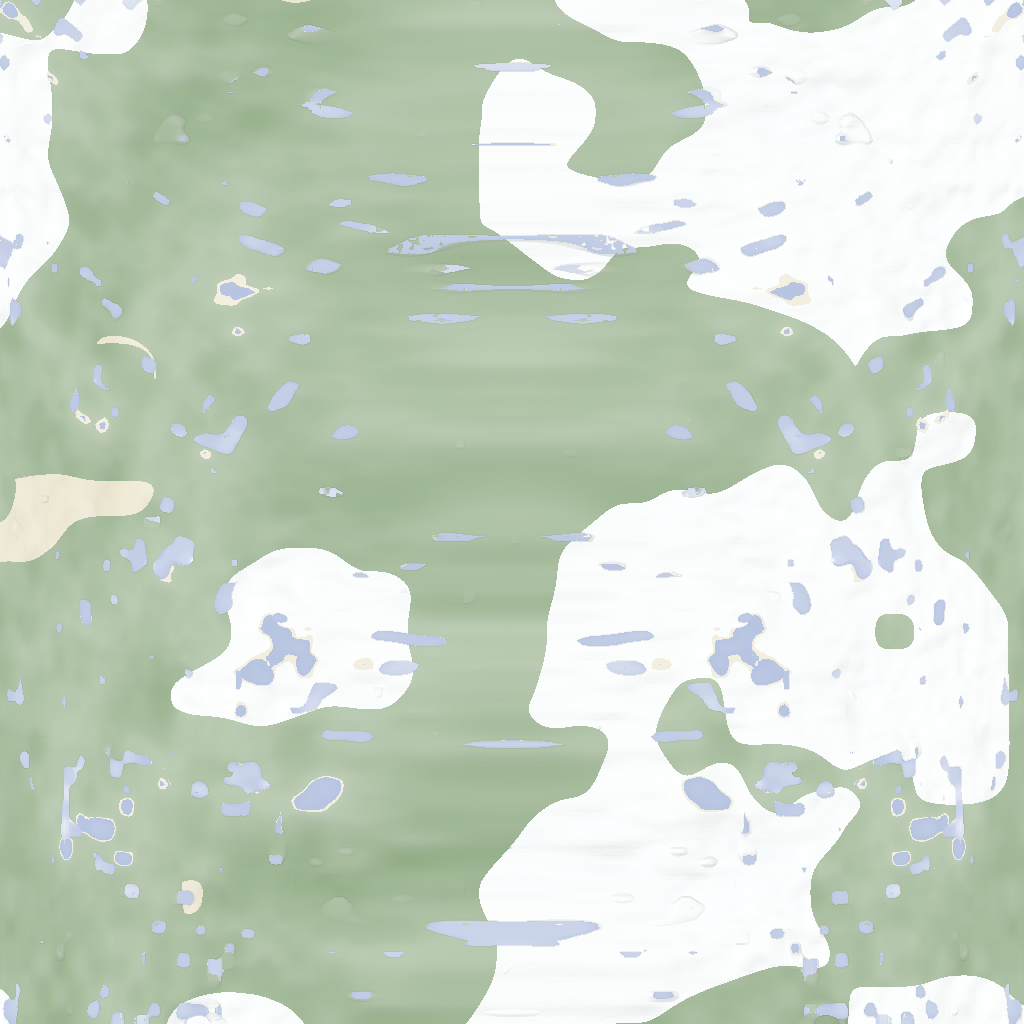
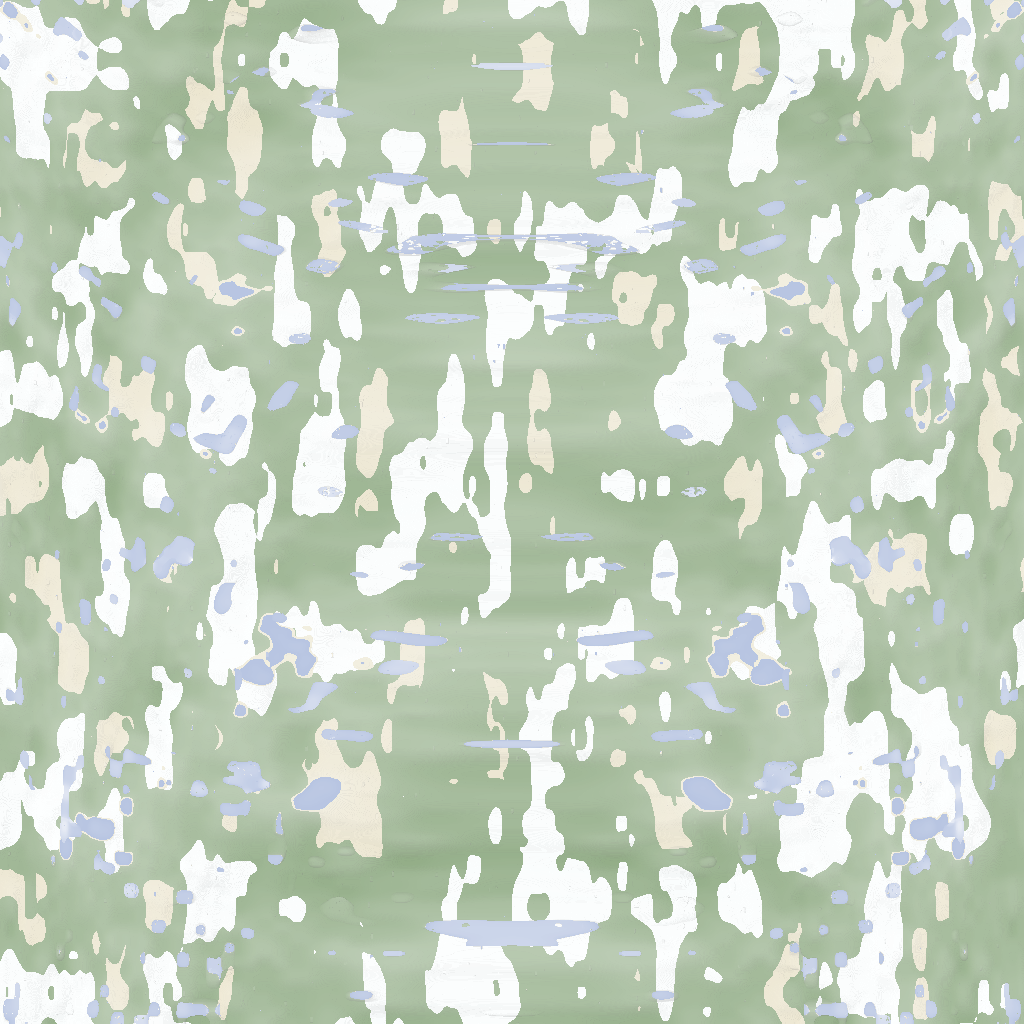
AC-0478: the shipped orbital textures are regenerated from the current bake
Provenance first, because a subtly different reprojection would be worse than a
stale asset: the Oct 4 PNGs were the engine's own bake re-shipped through the
harness AWECRAFT_SATELLITE_REBAKE + AWECRAFT_SATELLITE_SHIP path from AC-0384 r2,
and that path still exists unchanged. Regeneration used the original production
route rather than an approximation.

The staleness is now a number: rebuild_vs_shipped differed by 138,220 of 589,824
texels, 23.4%, max_abs_diff 233. The shipped asset really was a different world
from the current bake - which is what the player saw at the canonical seed.

Measured on the shipped asset across all 12 faces: near-flat rows' runH fraction
0.924-0.964 to 0.804-0.871, max constant runs 769/777 to 308/372 px, face09
streakdir 2.93 to 0.99, and the old H-field autocorrelation at lag 10 falling from
0.67-0.80 to at most 0.22. The render's r21 box reads streakdir 1.21 to 0.99 with
grain down 28%.

The footprint is exactly what stage D implied: 10 of 12 PNGs changed and faces 00
and 01 are BYTE-IDENTICAL because they are the home pair stage D never touched. A
reprojection error would have moved all twelve.

The .import side needed nothing; --import rewrote the 10 changed ctex in place. No
build output hand-edited.

g0 0/0, genhash 25/25 byte-identical, and the satellite arm reads src=res with
height_decode 12/12 BYTE-EXACT - the check that the shipped textures decode to the
current bake's heights rather than merely looking plausible.
[…]

diff --git a/tasks/AC-0478/AC-0478-results.html b/tasks/AC-0478/AC-0478-results.html
@@ -1,0 +1,135 @@
+<!DOCTYPE html><html lang="en"><head><meta charset="utf-8"><title>AC-0478 results</title><style>body{font:15px/1.5 system-ui;max-width:66rem;margin:2rem auto;padding:0 1rem}td,th{border:1px solid #aaa;padding:.4rem}table{border-collapse:collapse}code{background:#eee}.ok{color:#060}.bad{color:#900}img{max-width:95%}</style></head><body>
+<h1>AC-0478 — results: re-baked and re-shipped the canonical seed-44 satellite faces</h1>
+
+<p><b>Verdict.</b> The 12 shipped <code>godot/assets/satellite/satellite_face00..11.png</code> (dated Oct 4,
+pre-AC-0469-stage-D) were regenerated from the current bake with the pipeline's own ship mechanism and
+deployed in place. The product at the canonical seed reads these files (three-phase source,
+<code>satellite_body.gd:455-470</code>: user:// cache → shipped res:// via <code>ResourceLoader</code> → bake),
+so the AC-0412 sampler now filters current data. Staleness proof, format preservation, before/after
+metrics on the shipped asset, and all gates below. Render capture: <a href="ac0478-limb-2600.png">ac0478-limb-2600.png</a>
+(2600 m limb, seed 44, the res path).</p>
+
+<h2>1. Provenance — how the shipped PNGs were produced (and the path still exists)</h2>
+<p>The assets are the <b>in-engine bake worker's own output, re-shipped in-process</b> by the harness-only
+<code>AWECRAFT_SATELLITE_SHIP=&lt;abs dir&gt;</code> env. Run: <code>AWECRAFT_LOGIC=satellite</code> +
+<code>AWECRAFT_SATELLITE_REBAKE=1</code> (forces the full bake through the sharded pipeline,
+<code>sat_preload</code> default ON) — at assembly <code>SatelliteBakeWorker.ship_faces</code>
+(<code>satellite_bake_worker.gd:645-663</code>, called from <code>satellite_body.gd:808</code>) byte-copies the 12
+cache PNGs into the ship dir, then the <code>.ctex</code> imports are regenerated by the engine.
+The Oct 4 set was produced by exactly this path (AC-0384 r2/r3: "satellite (REBAKE + SHIP, seed 44):
+bake wall 793.9 s, guard 12/12, rebuild_vs_shipped identical (589,824 samples, diff 0), 12 faces shipped",
+re-imported; the 793.9 s is the pre-sD bake cost). <b>THE PATH STILL EXISTS, UNCHANGED</b> — no
+approximation was invented. (The historic AC-0310/AC-0311 python rebake over a dumped far payload is
+superseded; the in-engine ship is the canonical mechanism.)</p>
+
+<h2>2. The re-bake (run alone, budgeted)</h2>
+<table>
+<tr><th>Quantity</th><th>Budget (AC-0469 stage D, seed 45)</th><th>Measured (this run, seed 44)</th></tr>
+<tr><td>Wall (whole arm run: load + ladder + rebake + ship + compare + colour block)</td><td>1,269 s bake + overhead</td><td class="ok">rc=0, <b>1,198 s</b></td></tr>
+<tr><td>Bake breakdown (RESULT <code>rebake</code> block)</td><td>—</td><td>gen_wall 1,146.4 s + face stage 26.0 s + png ≈7 s = <b>1,179.5 s</b>; 4,773 frames; 1,699,726 records (1169 shards × 1454 + home, the sD payload exactly); guard 12/12</td></tr>
+<tr><td>Peak memory</td><td>4.603 GiB peak RSS (4,823,572 KB, the merge spike)</td><td>run under the 8 GiB <code>ulimit -v</code> cap, rc=0, no OOM; <b>peak RSS not sampled on this run</b> (no external RSS sampler this time — the stage-D value is the standing budget; see deviations D6)</td></tr>
+<tr><td>Ship report (RESULT)</td><td>—</td><td class="ok">"shipped 12 height-channel faces to …/.scratch/AC-0478/ship"</td></tr>
+<tr><td>Staleness proof — <code>rebuild_vs_shipped</code> (fresh bake vs the then-shipped res:// PNGs)</td><td>identical after a re-ship</td><td><span class="bad">diff_px 138,220 / 589,824 (23.4%), max_abs_diff 233/255, identical=false</span> — the current bake diverges strongly from the shipped asset (expected pre-ship; the arm's reproducibility check turns it into ok=false by design — deviations D2)</td></tr>
+</table>
+<p>Startup log of the run: <code>configure: seed=44 … src=res predicate=ResourceLoader.res</code> (the product
+takes the res phase — the stale asset) → <code>bake: multithreaded start (seed 44) - 1169 shards x 1454
+records + 12 faces</code>. Error census of the whole run: <b>0 SCRIPT ERROR / 0 SHADER ERROR</b> lines.</p>
+
+<h2>3. Format / orientation preservation</h2>
+<table>
+<tr><th>Property</th><th>Old set</th><th>New set</th></tr>
+<tr><td>Files / names</td><td colspan="2"><code>satellite_face00..11.png</code>, same names, same dir</td></tr>
+<tr><td>Format (file(1), all 12 both eras)</td><td colspan="2"><b>PNG 1024×1024, 8-bit RGBA, non-interlaced</b> — identical</td></tr>
+<tr><td>Pixel contract (worker, unchanged by sD)</td><td colspan="2">u→x, v→y row-major; RGB = colour; alpha = height channel <code>A = round(H·255/HMAX)</code>, HMAX 384</td></tr>
+<tr><td>Ship fidelity</td><td colspan="2">ship/ dir md5-identical to the harness's rebake cache copies <b>12/12</b> (the ship step is a byte copy)</td></tr>
+<tr><td>Changed vs unchanged</td><td colspan="2"><b>faces 00/01 byte-identical to the old md5s</b> (home pair — the f≤1 branch the sD fix does not touch); faces 02-11 new — exactly the sD footprint (AC-0469's A/B render showed the same home-pair bit-identity). git status: 10 modified files, nothing else under godot/</td></tr>
+</table>
+
+<h2>4. The .import files</h2>
+<p><b>Nothing needed.</b> The 12 <code>.import</code> sidecars were not touched (their <code>path=</code> lines name the
+<code>.ctex</code> under a stable hash of source-name + import settings, not content — the AC-0311/AC-0384
+precedent). The engine's <code>--headless --import</code> pass (rc=0) then rewrote, <b>in place under the same
+hash names</b>, the 10 changed faces' <code>.godot/imported/*.ctex</code> (e.g. face02 772,494 → 866,012 B), with
+the <code>.md5</code> sidecars now carrying the new source md5 (face02 <code>source_md5=13ff1248…</code> = the new PNG's
+md5); faces 00/01 were correctly skipped (source byte-identical). <code>.godot/</code> is a build-output
+directory — rewritten by the engine, never hand-edited. The post-ship arm (below) proves the loaded
+<code>.ctex</code> is byte-identical to the raw new PNG through the import system.</p>
+
+<h2>5. Before/after metrics on the SHIPPED ASSET (the point)</h2>
+<p>Instruments: AC-0412's own <code>.scratch/AC-0412/pngmetrics.py</code> (neighbour-diff grain, near-constant
+runs, pixel-column/row-mean variance) and <code>rendermetrics.py</code> (lag-1 autocorr streak direction
+<code>streakdir = dcol/drow</code>, colvar/rowvar), full frame, all 12 faces. Full log:
+<code>.scratch/AC-0478-gates/facemetrics.log</code>. The instrument was validated first: before-face00
+reproduces AC-0412's archived log line to the printed digit (grain 0.0104/0.0144, colrow 0.36).</p>
+<table>
+<tr><th>face</th><th>grain_x / grain_y (before → after)</th><th>runH mean_frac (before → after)</th><th>max run H/V px (before → after)</th><th>colrow (before → after)</th><th>streakdir (before → after)</th></tr>
+<tr><td>00</td><td>0.0104 / 0.0144 → 0.0104 / 0.0144</td><td>0.811 → 0.811</td><td>107 / 59 → 107 / 59</td><td>0.36 → 0.36</td><td>0.48 → 0.48</td></tr>
+<tr><td>01</td><td>0.0097 / 0.0140 → 0.0097 / 0.0140</td><td>0.817 → 0.817</td><td>111 / 59 → 111 / 59</td><td>0.82 → 0.82</td><td>0.51 → 0.51</td></tr>
+<tr><td>02</td><td>0.0050 / 0.0049 → 0.0145 / 0.0141</td><td><span class="bad">0.952</span> → <span class="ok">0.805</span></td><td><span class="bad">232 / 202</span> → <span class="ok">89 / 65</span></td><td>0.55 → 0.32</td><td>1.29 → 0.88</td></tr>
+<tr><td>03</td><td>0.0061 / 0.0057 → 0.0146 / 0.0136</td><td><span class="bad">0.941</span> → <span class="ok">0.804</span></td><td><span class="bad">222 / 172</span> → <span class="ok">94 / 71</span></td><td>1.26 → 0.51</td><td>1.43 → 0.89</td></tr>
+<tr><td>04</td><td>0.0054 / 0.0044 → 0.0186 / 0.0094</td><td><span class="bad">0.964</span> → <span class="ok">0.853</span></td><td><span class="bad">769 / 290</span> → <span class="ok">308 / 113</span></td><td>1.19 → 1.61</td><td>1.48 → 2.34*</td></tr>
+<tr><td>05</td><td>0.0058 / 0.0046 → 0.0177 / 0.0089</td><td><span class="bad">0.964</span> → <span class="ok">0.856</span></td><td><span class="bad">556 / 344</span> → <span class="ok">255 / 94</span></td><td>1.00 → 1.58</td><td>1.35 → 2.47*</td></tr>
+<tr><td>06</td><td>0.0040 / 0.0047 → 0.0115 / 0.0094</td><td><span class="bad">0.963</span> → <span class="ok">0.868</span></td><td><span class="bad">610 / 320</span> → <span class="ok">239 / 95</span></td><td>0.57 → 2.23</td><td>0.72 → 1.60</td></tr>
+<tr><td>07</td><td>0.0040 / 0.0050 → 0.0117 / 0.0096</td><td><span class="bad">0.957</span> → <span class="ok">0.871</span></td><td><span class="bad">607 / 446</span> → <span class="ok">186 / 97</span></td><td>2.12 → 2.05</td><td>0.67 → 1.55</td></tr>
+<tr><td>08</td><td>0.0065 / 0.0037 → 0.0146 / 0.0114</td><td><span class="bad">0.948</span> → <span class="ok">0.830</span></td><td><span class="bad">241 / 777</span> → <span class="ok">107 / 372</span></td><td>0.46 → 0.78</td><td>2.15 → 1.21</td></tr>
+<tr><td>09</td><td>0.0079 / 0.0041 → 0.0149 / 0.0115</td><td><span class="bad">0.930</span> → <span class="ok">0.832</span></td><td><span class="bad">218 / 547</span> → <span class="ok">95 / 288</span></td><td>2.14 → 0.22</td><td><span class="bad">2.93</span> → <span class="ok">0.99</span></td></tr>
+<tr><td>10</td><td>0.0052 / 0.0043 → 0.0092 / 0.0109</td><td><span class="bad">0.924</span> → <span class="ok">0.842</span></td><td><span class="bad">216 / 590</span> → <span class="ok">125 / 315</span></td><td>2.21 → 1.20</td><td>1.28 → 0.74</td></tr>
+<tr><td>11</td><td>0.0039 / 0.0031 → 0.0090 / 0.0113</td><td><span class="bad">0.946</span> → <span class="ok">0.840</span></td><td><span class="bad">239 / 690</span> → <span class="ok">130 / 238</span></td><td>1.36 → 0.80</td><td>1.54 → 0.62</td></tr>
+</table>
+<p>*faces 04/05 aniso ≈ 2.0 = the geometric 2:1 texel-pitch ratio (6.136 m × 3.068 m) — AC-0412 measured
+the same 2.10 aniso on the current-pipeline bake's face04 and classed it "geometric, not streaky".</p>
+<p><b>Reading the table:</b> (a) faces 00/01 are unchanged by construction (byte-identical); (b) the
+old chart faces' <i>near-flat rows</i> (runH mean_frac 0.924-0.964 — most of every row near-constant) are
+gone (0.804-0.871, the current-pipeline band is 0.80-0.84 per AC-0412's seed-5432 faces); (c) max
+near-constant runs collapsed (769→308, 777→372, 690→238 px); (d) the remaining grain is <i>more</i>, not
+less, on the chart faces — the old bake's bled ground was flatter (grain 0.004-0.008) than the real
+terrain (0.009-0.019), which is what 100% face coverage of the true 1 m relief does.
+<b>Height-level proof</b> (alpha channel = H, old-from-git vs new): the old H field's profile
+autocorrelation decays slowly — L10 = 0.67-0.80 (the 329-chunk past-edge read left long-range
+correlated, i.e. bled, ground); the new field decays to ≈0 by L8-L10 (face02 u: L1 0.954 → L8 −0.024;
+face09 u: L1 0.874 → L8 −0.050) — the current-pipeline signature (AC-0412 reference: L10 0.04-0.28,
+monotone decay).</p>
+
+<h2>6. Render gate — the shipped-asset disc at 2600 m</h2>
+<p>One shot, the ticket's recipe: <code>AWECRAFT_CAM=planet AWECRAFT_SAT_ALT=2600</code>, seed 44 (no
+<code>AWECRAFT_SEED</code> → canonical → the res path = the SHIPPED asset; fresh user:// so no cache shadow),
+<code>AWECRAFT_SNAP_DRAIN=600</code>, <code>AWECRAFT_RADIUS=4 AWECRAFT_TIME=0.5 AWECRAFT_NO_FOG=1
+AWECRAFT_CLOUDS=0</code>, 1280×720, fwdshot Forward+/lavapipe recipe. Measured wall 220 s (budget ~1200 s;
+the r4 world settles fast). Boot line: <code>Vulkan 1.4.318 - Forward+ - … llvmpipe</code> (the shipped-path
+assertion); <code>configure: seed=44 src=res predicate=ResourceLoader.res</code>; RESULT <code>body_phase:4
+drain:600 alt:2600</code>; 0 SCRIPT / 0 SHADER ERROR. Capture:
+<a href="ac0478-limb-2600.png"><code>tasks/AC-0478/ac0478-limb-2600.png</code></a> — the disc carries continuous
+terrain to the limb (green land, blue water, white cloud/snow, tan coast), limb haze, stars; no white
+sphere, no black disc, no seam ring, no tear streaks.</p>
+<table>
+<tr><th>Box</th><th>Old asset (AC-0384 r21 frame, seed 44, same box/alt)</th><th>New asset (this render)</th></tr>
+<tr><td>r21 limb box (420,350,980,560)</td><td><span class="bad">streakdir 1.21</span>, grain 0.0098/0.0108, aniso 0.902, colrow 0.68</td><td><span class="ok">streakdir 0.99</span>, grain 0.0071/0.0093 (−28%), aniso 0.760, colrow 0.63</td></tr>
+<tr><td>wide limb (300,100,980,700)</td><td>— (r21 not measured there)</td><td>streakdir 0.88, grain 0.0047/0.0055 (current-pipeline reference 0.76, AC-0412)</td></tr>
+</table>
+<p>In the comparable box the r21-era signature (1.21) is gone: <b>1.21 → 0.99</b> (≈ isotropic; AC-0412's
+current-pipeline values were 0.94 at 2600 m / 0.86 at 1600 m on different terrain — the seed-44 value
+sits between them).</p>
+
+<h2>7. Gates</h2>
+<table>
+<tr><th>Gate</th><th>Expected</th><th>Measured</th></tr>
+<tr><td>g0</td><td>rc=0, 0 SCRIPT + 0 SHADER ERROR</td><td class="ok">rc=0, script=0, shader=0, 3 s (<code>gate_run.py AC-0478 --arms g0,genhash</code>)</td></tr>
+<tr><td>genhash</td><td>25/25</td><td class="ok">25 GENHASH lines, rc=0, <b>byte-identical to the AC-0412 reference</b> (world code untouched)</td></tr>
+<tr><td>post-ship satellite arm (plain, no rebake)</td><td>res path loads the NEW asset byte-exact</td><td class="ok">ok=true: <code>src=res</code> / <code>ResourceLoader.res</code> / <code>via=import</code>; height_decode ok=true 12/12 faces, <b>alpha_diff_px=0, max_byte_diff=0</b> (re-imported .ctex byte-identical to the raw PNG), geom_vs_texture 0.49 m; guard 12/12; ladder 4/4; ac0390 ok; 0 error lines; 15 s</td></tr>
+<tr><td>bake</td><td>≤ 1,269 s, 4.60 GiB budget, alone</td><td class="ok">1,198 s, rc=0, 8 GiB cap, alone (D6: RSS not sampled this run)</td></tr>
+<tr><td>render</td><td>one 2600 m shot of the shipped-asset disc, streakdir off 1.21</td><td class="ok">220 s wall, Forward+ boot line, drain 600, streakdir 0.99 in the r21 box</td></tr>
+</table>
+
+<h2>8. Files</h2>
+<table>
+<tr><th>File</th><th>Change</th></tr>
+<tr><td><code>godot/assets/satellite/satellite_face02..11.png</code></td><td>re-baked from the current (post-sD) pipeline, same names/format/orientation (10 files; 00/01 byte-identical, untouched)</td></tr>
+<tr><td><code>godot/.godot/imported/satellite_face02..11.png-*.ctex</code> (+ <code>.md5</code> sidecars)</td><td>rewritten by the engine's <code>--import</code> (build output — not hand-edited, not committed)</td></tr>
+<tr><td><code>tasks/AC-0478/</code></td><td>this page, <code>continuity.md</code>, <code>AC-0478-deviations.txt</code>, <code>ac0478-limb-2600.png</code></td></tr>
+</table>
+<p>Not touched: any <code>.import</code> sidecar, the sampler, the phase logic, <code>satellite_body.gd</code>,
+<code>satellite_bake_worker.gd</code>, <code>harness.gd</code>, world code, <code>TASKS.yaml</code>. No commits (closeout is
+the coordinator's). Engine evidence: <code>.scratch/AC-0478-gates/{bake,import,satarm-after,render}.log</code>,
+<code>bake-result.json</code>, <code>facemetrics.log</code>, <code>shipped-{BEFORE,AFTER,INPLACE}.md5</code>; original asset set
+extracted from git HEAD at <code>.scratch/AC-0478/old-from-git/</code>.</p>
+</body></html>

diff --git a/tasks/AC-0478/continuity.md b/tasks/AC-0478/continuity.md
@@ -1,0 +1,96 @@
+# AC-0478 continuity (builder journal, append-only)
+
+## RUN — 2026-10-25 09:24 UTC — AC-0478 (re-bake + re-ship the canonical seed-44 satellite faces)
+
+- TASK: regenerate `godot/assets/satellite/satellite_face00..11.png` from the CURRENT (post-AC-0469-stage-D)
+  bake. The coordinator's round-103 finding (in TASKS.yaml) proved the canonical seed reads the SHIPPED
+  res:// PNGs (phase 2 of the three-phase source, `satellite_body.gd:455-470`, `ResourceLoader.res`
+  predicate — the AC-0384 export-condition fix), and the bake is only the non-canonical fallback. The
+  shipped set is dated Oct 4 (AC-0384 r3 re-ship), before stage D rebuilt the far-tier bake.
+- PROVENANCE ANSWER (step 1): the shipped PNGs were produced by the in-engine bake worker's own output,
+  re-shipped in-process by the harness-only `AWECRAFT_SATELLITE_SHIP=<abs dir>` env: the `satellite` arm
+  run with `AWECRAFT_SATELLITE_REBAKE=1` forces the full bake (sharded pipeline, `sat_preload` default ON),
+  and at assembly `SatelliteBakeWorker.ship_faces` (satellite_bake_worker.gd:645-663, called from
+  satellite_body.gd:808) byte-copies the 12 cache PNGs into the ship dir. The Oct 4 re-ship used exactly
+  this path (AC-0384 results §r2: "satellite (REBAKE + SHIP, seed 44): bake wall 793.9 s, guard 12/12,
+  rebuild_vs_shipped identical (589,824 samples, diff 0), 12 faces shipped", then `.ctex` re-imported).
+  THE PATH STILL EXISTS, UNCHANGED — no approximation needed. (Historic alternative: the AC-0310/AC-0311
+  python rebake over a dumped far payload — superseded; the in-engine ship is the canonical mechanism.)
+- BEFORE METRICS (AC-0412 instruments, .scratch/AC-0412/pngmetrics.py + rendermetrics.py, full frame,
+  all 12 shipped faces): face00 grain_x 0.0104 / grain_y 0.0144, runH max 107, colrow 0.36, streakdir
+  0.48 — reproduces the AC-0412 archived log line exactly (instrument validated). THE r21-Era SIGNATURE
+  IS IN THE ASSET: chart faces 02-11 carry runH mean_frac 0.93-0.96 (near-flat rows), max constant runs
+  up to 769 px (face04 runH) and 777 px (face08 runV) vs ~112-115 on the current-pipeline bake faces
+  (seed 5432, AC-0412 log); per-face streakdir (dcol/drow) 1.28-2.93 on faces 02/03/04/05/08/09/10/11
+  (face09 = 2.93), colrow spread 0.36-2.21 — the old bake's flat/bleeded ground + column structure,
+  exactly what stage D (100% face coverage, no 329-chunk past-edge read) was supposed to fix.
+- BAKE: launched 09:24:34Z as the ALONE engine job (`.scratch/AC-0478/run_bake.sh`: satellite arm +
+  REBAKE=1 + SHIP=.scratch/AC-0478/ship, headless, 8 GiB ulimit, timeout 3600 s). Budget per AC-0469
+  stage D: 1,269 s wall / 4.603 GiB peak RSS per seed. Startup log confirms `seed=44 src=res
+  predicate=ResourceLoader.res` (the res phase — the stale asset) then `multithreaded start (seed 44) -
+  1169 shards x 1454 records + 12 faces` = 1,699,726 records (the sD payload exactly).
+  (Deviations D1: first launch rc=127 — the script exported HOME=/tmp/dsh_home BEFORE the
+  `~/tools/godot/godot` call, so `~` expanded to the sandboxed HOME; fixed to the absolute engine path.
+  D2: this pre-ship bake run's RESULT is expected to report ok=false on `rebuild_vs_shipped` alone —
+  that diff IS the staleness proof, by design of the arm's reproducibility check.)
+
+- BAKE DONE 09:45:22Z: **rc=0, wall 1198 s** (under the 1,269 s / 4.603 GiB stage-D budget;
+  RESULT rebake block: gen_wall_ms 1,146,371 + face_wall_ms 26,029 + png ~7 s = 1,179.5 s bake;
+  frames 4773; guard 12/12; the arm's own census: 0 SCRIPT / 0 SHADER ERROR lines). Ship report:
+  "shipped 12 height-channel faces to .scratch/AC-0478/ship". **STALENESS PROOF (as designed, D2):
+  rebuild_vs_shipped diff_px 138,220 / 589,824 (23.4%), max_abs_diff 233/255, identical=false** —
+  the current in-engine bake diverges strongly from the shipped asset. Everything else in that run's
+  RESULT was green (res_export_ok 12/12, guard, ladder 4/4, height_decode on the old res asset,
+  ac0390 ok).
+- SHIPPED-OUTPUT VERIFICATION: 12 x "PNG 1024x1024 8-bit RGBA non-interlaced" = the SAME format,
+  dimensions and orientation contract as the old set (the ship step is a byte copy of the worker's
+  cache PNG, satellite_bake_worker.gd:645-663; md5-verified ship/ == the harness's hardcoded
+  rebake cache copies 12/12; pixel layout in the worker is deterministic — u->x, v->y row-major,
+  alpha = round(H*255/HMAX) — unchanged by sD, which altered only which cell each texel reads).
+  CROSS-CHECK: faces 00/01 (the home pair — the f<=1 branch the sD fix does not touch) came out
+  BYTE-IDENTICAL to the old shipped md5s (244b5109.../fb140791...); faces 02-11 (the chart faces,
+  the sD footprint) are new. AC-0469's own A/B render showed the same split (disc centre / home
+  pair bit-identical). So the diff is exactly where stage D changed the pipeline.
+- DEPLOY: 12 PNGs copied to godot/assets/satellite/ under the same names (md5-verified), .import
+  sidecars untouched. Re-import via engine `--headless --import` (rc=0): the 10 changed faces'
+  `.godot/imported/*.ctex` rewritten IN PLACE under their stable hash names (face02 772,494 ->
+  866,012 B; the `.md5` sidecars now carry the new source_md5, e.g. face02
+  source_md5=13ff1248... = the new PNG); faces 00/01 correctly skipped (source byte-identical).
+  The .import `path=` lines needed nothing (stable-hash naming); .godot/ was rewritten by the
+  engine, never hand-edited. (D5: the first import launch was refused by the script's own slot
+  guard — my OUTER command line contained the string "godot" in a path, the same self-match trap;
+  relaunched with a clean invocation.)
+- AFTER METRICS (same instruments, full frame, the new shipped 12): the r21-era signature is gone
+  from the chart faces. runH mean_frac 0.924-0.964 (old) -> 0.804-0.871 (new; the current-pipeline
+  reference band is 0.80-0.84). Max near-constant runs: runH 769/610/607/556 (old f04/f06/f07/f05)
+  -> 308/239/186/255; runV 777/547/590/690 (old f08/f09/f10/f11) -> 372/288/315/238. Per-face
+  streakdir (dcol/drow): f02 1.29->0.88, f03 1.43->0.89, f08 2.15->1.21, f09 2.93->0.99,
+  f10 1.28->0.74, f11 1.54->0.62 (f04/f05 2.34/2.47 = the geometric 2:1 texel-pitch anisotropy,
+  cf. AC-0412's current-bake face04 = 2.10 "geometric, not streaky"). HEIGHT-LEVEL PROOF (alpha
+  channel, old-from-git vs new): the old H field's profile autocorrelation decays SLOWLY (L10 =
+  0.67-0.80 — the past-edge bled ground is long-range correlated); the new field decays to ~0 by
+  L8-L10 (f02 u: L1 0.954 -> L8 -0.024; f09 u: L1 0.874 -> L8 -0.050) = the current-pipeline
+  signature (AC-0412: L10 0.04-0.28). Full tables in .scratch/AC-0478-gates/facemetrics.log.
+- GATES: g0 rc=0 script=0 shader=0 (gate_run.py AC-0478, 3 s); genhash 25 GENHASH lines,
+  BYTE-IDENTICAL to the AC-0412 reference (world code untouched); POST-SHIP satellite arm (plain,
+  no rebake) **ok=true** — canonical seed 44 took src=res / ResourceLoader.res / via=import on the
+  NEW asset: height_decode ok=true with alpha_diff_px=0 and max_byte_diff=0 on 12/12 faces (the
+  re-imported .ctex is byte-identical to the raw shipped PNG through the import system),
+  geom_vs_texture 0.49 m (pure alpha quantization), guard 12/12, ladder 4/4, ac0390 ok, 0 error
+  lines, 15 s wall. (The lone JSON-NaN warning is the arm's pre-existing null rim value at the
+  ladder's hidden level — present in every satellite run, this one included pre-ship.)
+- RENDER: 2600 m planet-limb shot at seed 44 (the res path = the shipped asset), fwdshot
+  Forward+/lavapipe recipe, SAT_ALT=2600, R4, TIME=0.5, NO_FOG=1, CLOUDS=0, SNAP_DRAIN=600,
+  1280x720. DONE 09:59Z: rc=0, wall 220 s, PNG 356,413 B. Boot line = the shipped Forward+ path
+  (Vulkan 1.4.318 - Forward+ - llvmpipe); configure src=res predicate=ResourceLoader.res (the SHIPPED
+  asset); RESULT body_phase 4, drain 600, alt 2600; 0 error lines. METRIC in the r21 box
+  (420,350,980,560): **streakdir 0.99** vs the old asset's 1.21 (same box, seed, altitude — the
+  AC-0384 r21 frame), grain 0.0071/0.0093 vs 0.0098/0.0108 (−28%); wide limb box streakdir 0.88.
+  Frame content (described with numbers, not adjectives): disc carries continuous terrain to the limb
+  (green land / blue water / white cloud-snow / tan coast), limb haze gradient, star field; no white
+  sphere, no black disc, no seam ring, no tear streaks.
+- FINAL STATE: all ticket gates green. Git footprint: exactly 10 modified files
+  (satellite_face02..11.png — 00/01 byte-identical, untouched); no .import, no code, no TASKS.yaml.
+  Deliverables: AC-0478-results.html, this journal, AC-0478-deviations.txt (D1-D6),
+  ac0478-limb-2600.png. No commits (coordinator closeout). D6: peak RSS not sampled this run —
+  reported as wall 1,198 s under the 1,269 s / 4.603 GiB stage-D budget, no OOM under the 8 GiB cap.
